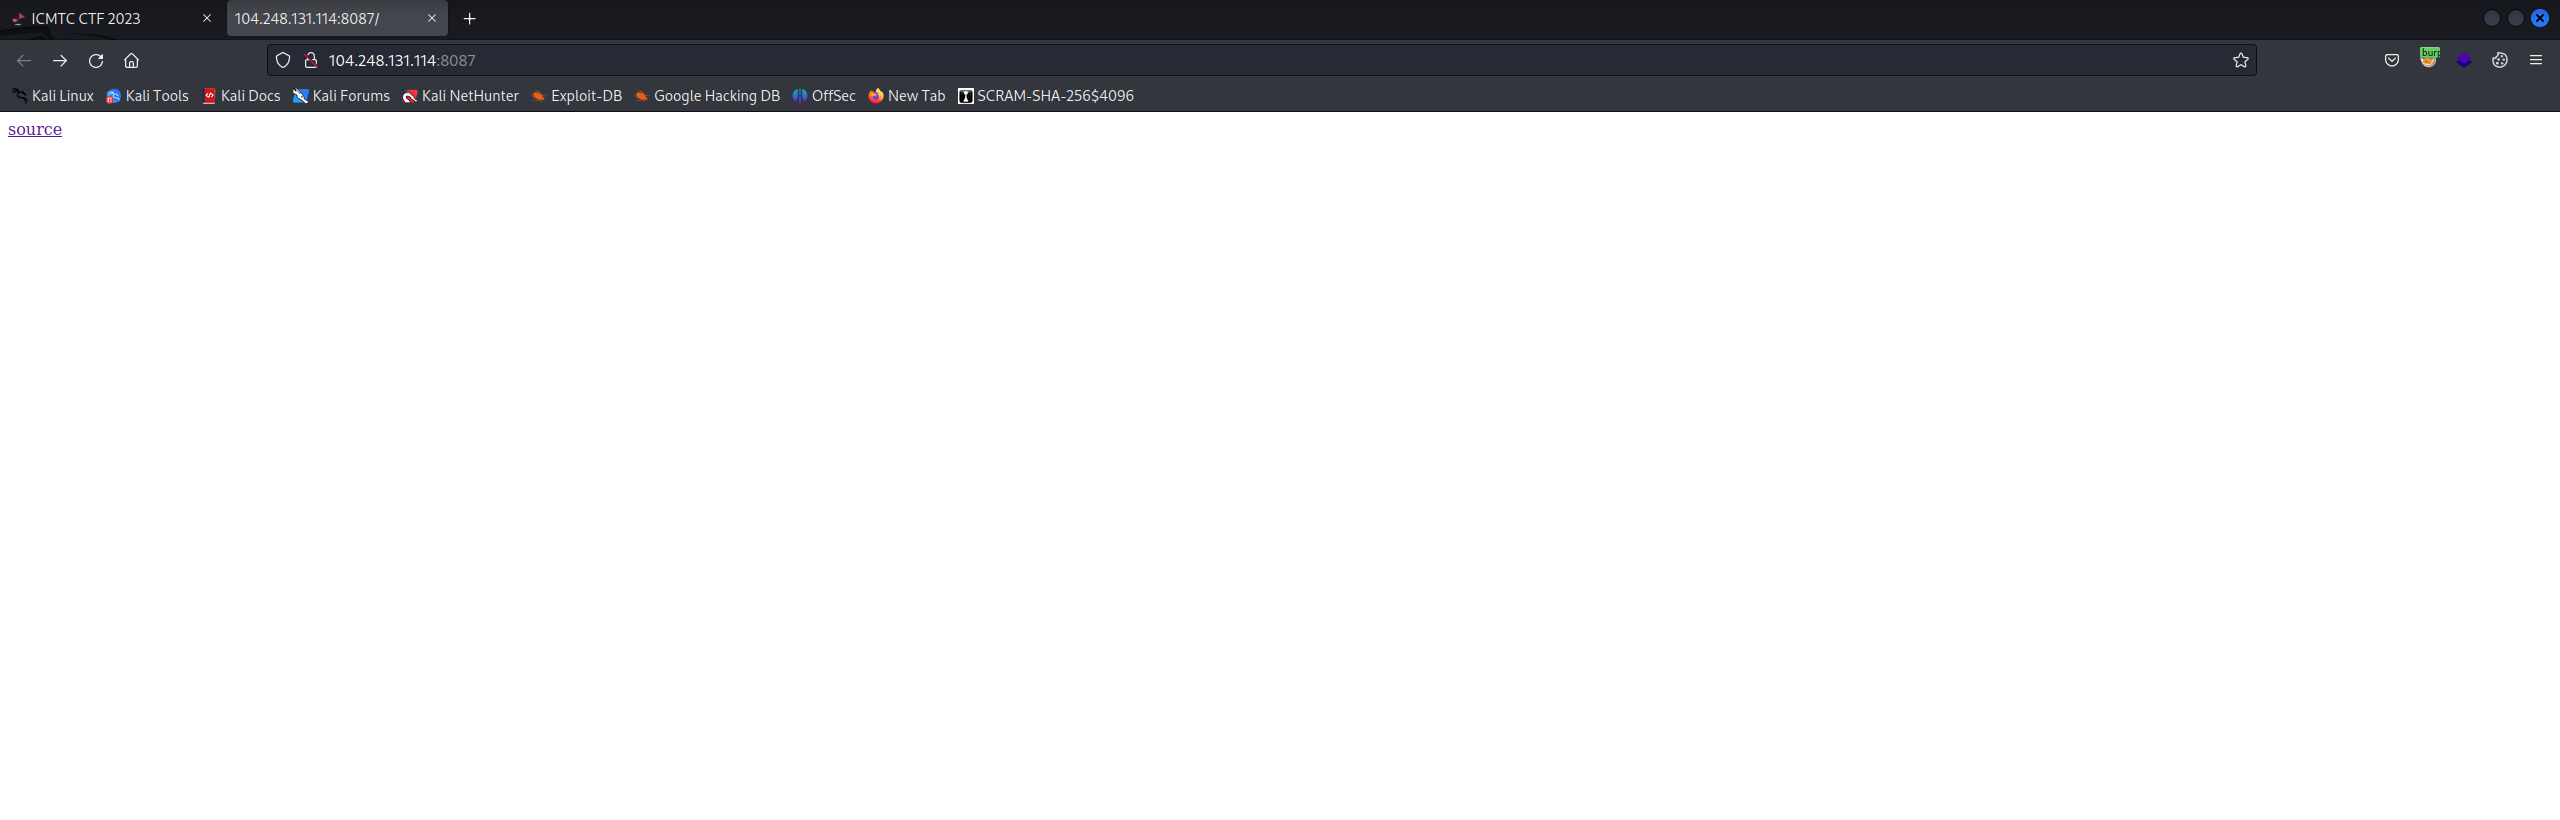
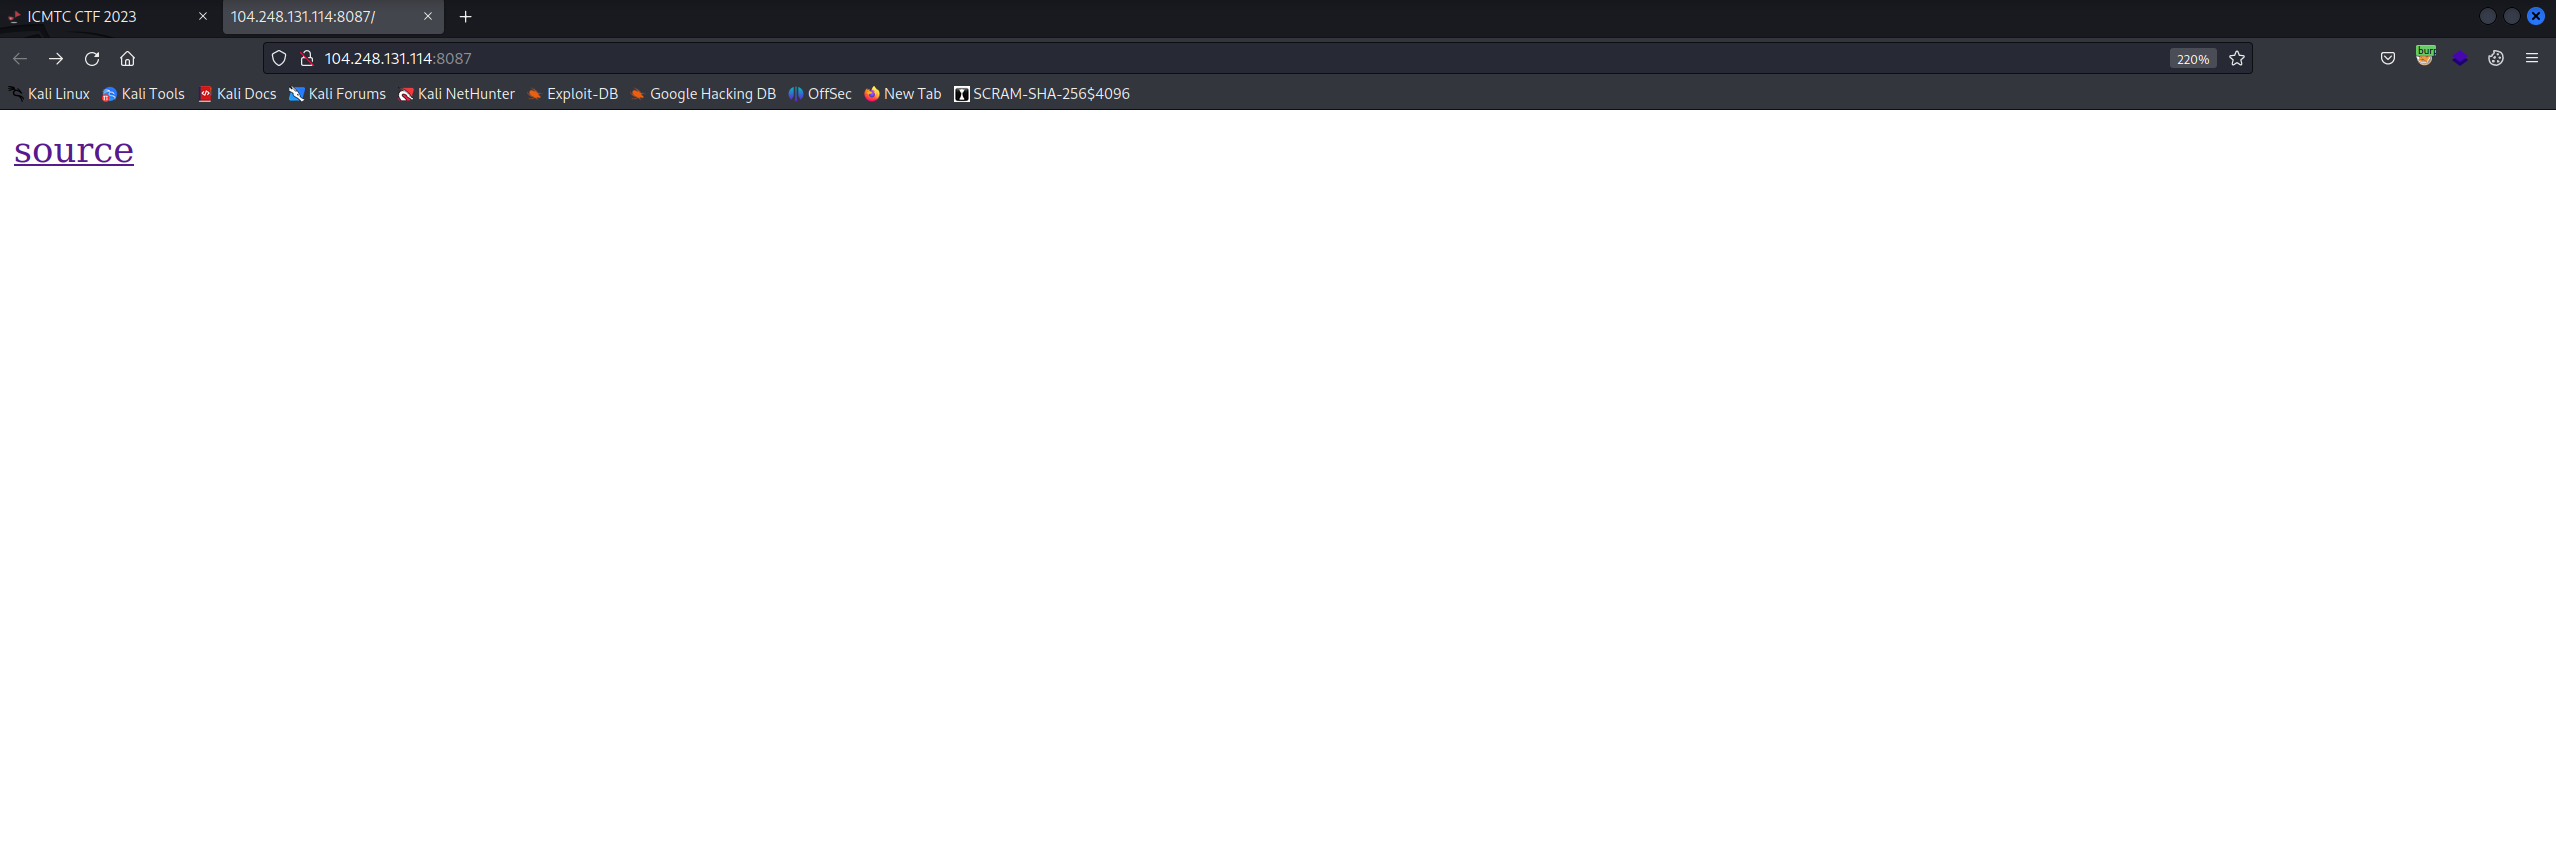
wrirting

Changed region(s): [[0.0, 0.0, 1.0, 0.2134]]

diff --git a/puzzle1.md b/puzzle1.md
@@ -1,1 +1,6 @@
+Challenge Description :
+### What do you know about OOP?
+
+Looking at the landing page, a classic ref to the Source code.
+
 ![Alt text](image.png)
